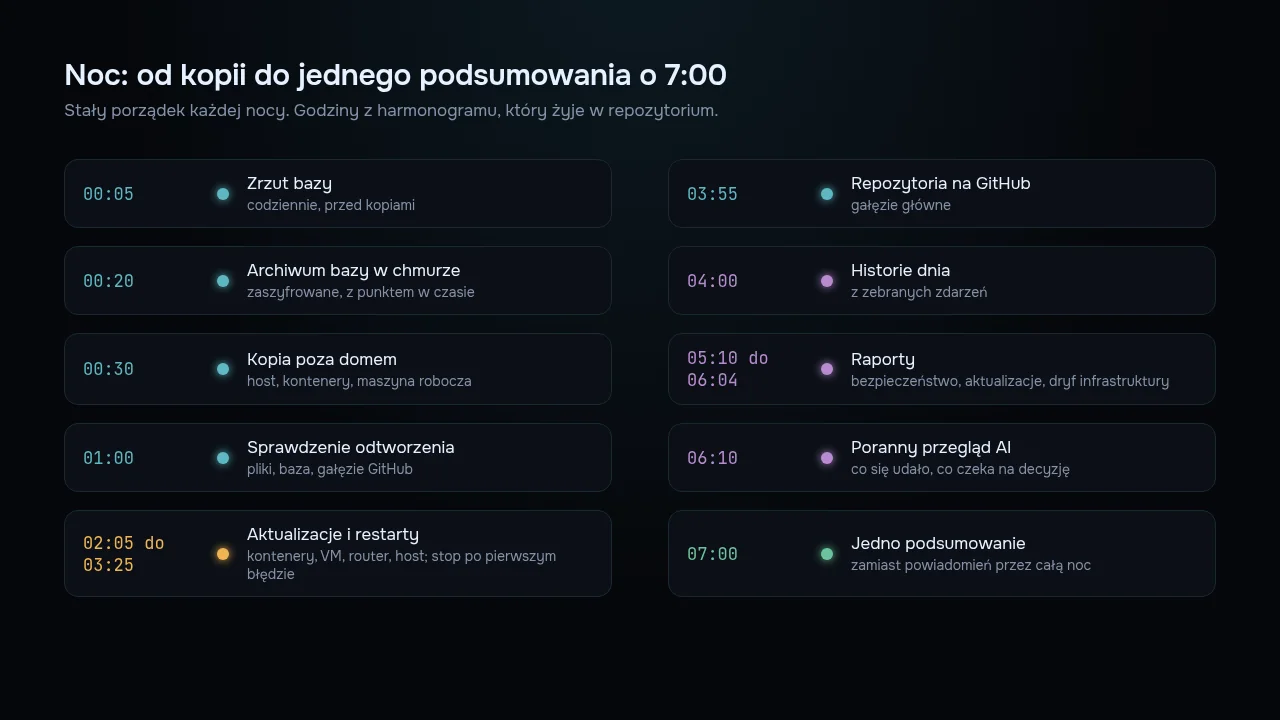
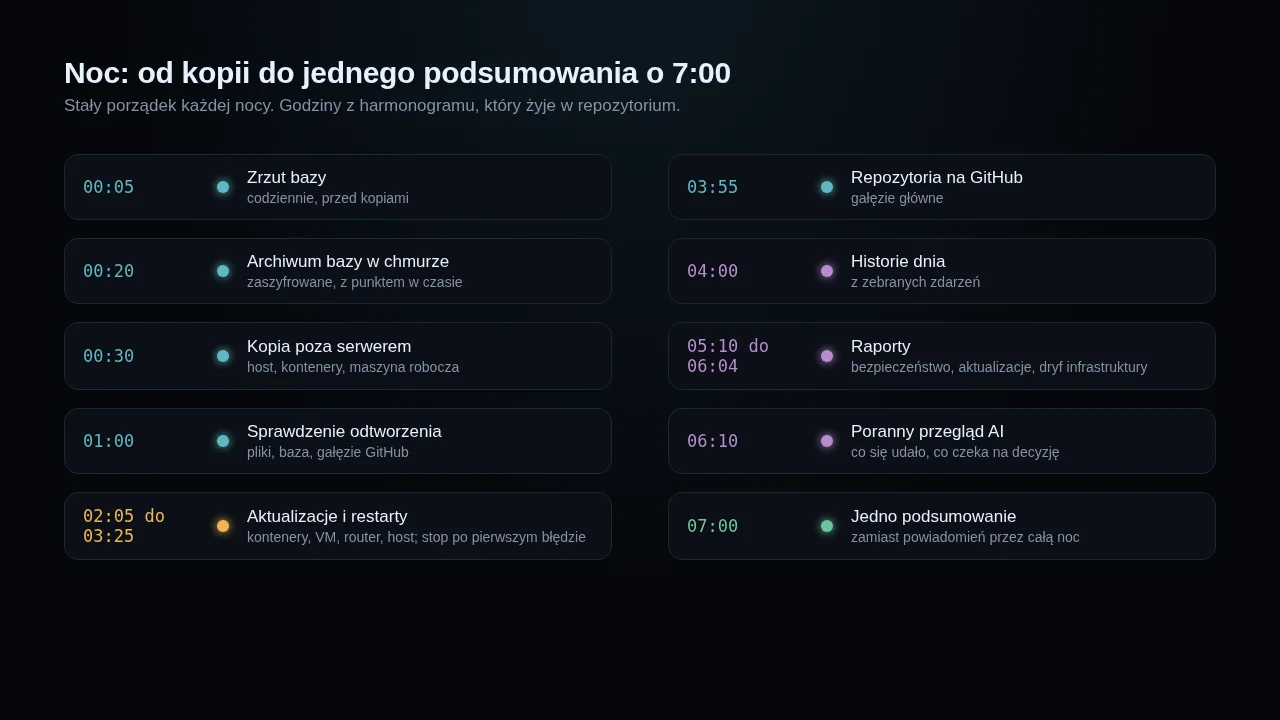
Platforma danych: okładka z równoległej wersji (bez niesprawdzonej liczby), schematy bez słowa „dom”, link do agentów; Awatary 3D: aktualny status po zdjęciu z rzutnika
Kind: feat

diff --git a/tools/okladki/platforma.html b/tools/okladki/platforma.html
@@ -1,0 +1,69 @@
+<!doctype html><html lang="pl"><head><meta charset="utf-8"><link rel="stylesheet" href="base.css">
+<!-- Okładka projektu „Platforma danych i nocny potok”: makieta z faktów (godziny z harmonogramu, wynik sprawdzenia
+     odtworzenia z nocy 09.11.2026), bez adresów i nazw maszyn. Lewy górny róg pusty: tam na karcie jest etykieta kategorii.
+     Render: zrzut 1280x720 (Playwright + google-chrome) → public/img/projekty/platforma-okladka.webp (q86) -->
+<style>
+@font-face{font-family:Onest;src:url(../../node_modules/@fontsource-variable/onest/files/onest-latin-ext-wght-normal.woff2) format('woff2');font-weight:100 900}
+@font-face{font-family:Onest;src:url(../../node_modules/@fontsource-variable/onest/files/onest-latin-wght-normal.woff2) format('woff2');font-weight:100 900}
+@font-face{font-family:JBM;src:url(../../node_modules/@fontsource-variable/jetbrains-mono/files/jetbrains-mono-latin-wght-normal.woff2) format('woff2');font-weight:100 800}
+html,body{font-family:Onest,sans-serif}
+.bg{background:radial-gradient(900px 560px at 18% 0%,#10303a 0,#030408 72%)}
+.p{position:absolute;border-radius:14px;background:#070b12;border:1px solid #1d2a3c;box-shadow:0 30px 80px rgba(0,0,0,.65);color:#d6deea;overflow:hidden}
+.ph{font:600 13px JBM,monospace;letter-spacing:.14em;text-transform:uppercase;color:#7d8ba3;padding:16px 22px 6px}
+.tl{position:relative;padding:6px 22px 0 22px}
+.row{display:grid;grid-template-columns:62px 18px 1fr auto;align-items:center;height:40.5px;font-size:16.5px}
+.t{font:500 14px JBM,monospace;color:#7d8ba3}
+.dt{width:10px;height:10px;border-radius:50%;background:#5fb8c2;box-shadow:0 0 0 3px rgba(95,184,194,.15)}
+.dt.v{background:#b88bd0;box-shadow:0 0 0 3px rgba(184,139,208,.15)}
+.dt.m{background:#e3e9f2;box-shadow:0 0 0 3px rgba(227,233,242,.12)}
+.line{position:absolute;left:88px;top:24px;bottom:16px;width:2px;background:linear-gradient(#5fb8c2,#b88bd0 60%,#e3e9f2)}
+.r{font:500 13px JBM,monospace;color:#5fb8c2}
+.r.v{color:#b88bd0}.r.m{color:#9aa6b8}
+.ck{font:15px/1.8 JBM,monospace;padding:4px 22px 0;color:#c6d0de}
+.ck b{color:#5fb8c2;font-weight:600}
+.big{font:600 56px Onest;color:#e8eef6;letter-spacing:-.02em}
+.sm{font-size:13.5px;color:#8995a8}
+.bar2{height:8px;border-radius:4px;background:#121a26;margin:8px 0 4px;overflow:hidden}
+.bar2 i{display:block;height:100%;background:linear-gradient(90deg,#5fb8c2,#b88bd0)}
+.tag{color:#5d6a80;font-family:JBM,monospace}
+</style></head><body><div class="bg">
+<div class="p" style="left:36px;top:150px;width:640px;height:520px">
+ <div class="ph">noc · potok zadań</div>
+ <div class="tl"><div class="line"></div>
+  <div class="row"><span class="t">00:05</span><span class="dt"></span><span>Zrzut bazy PostgreSQL</span><span class="r">ok</span></div>
+  <div class="row"><span class="t">00:20</span><span class="dt"></span><span>Kopia przyrostowa bazy, szyfrowana</span><span class="r">ok</span></div>
+  <div class="row"><span class="t">00:30</span><span class="dt"></span><span>Kopia danych poza serwer</span><span class="r">ok</span></div>
+  <div class="row"><span class="t">01:00</span><span class="dt"></span><span>Próba odtworzenia kopii</span><span class="r">ok · 17 min</span></div>
+  <div class="row"><span class="t">02:05</span><span class="dt v"></span><span>Okno konserwacji</span><span class="r v">ok</span></div>
+  <div class="row"><span class="t">02:40</span><span class="dt v"></span><span>Przegląd kodu z poprzedniego dnia</span><span class="r v">ok</span></div>
+  <div class="row"><span class="t">03:40</span><span class="dt v"></span><span>Dokumentacja zgodna ze stanem</span><span class="r v">ok</span></div>
+  <div class="row"><span class="t">03:55</span><span class="dt v"></span><span>Repozytoria na GitHub</span><span class="r v">ok</span></div>
+  <div class="row"><span class="t">05:10</span><span class="dt m"></span><span>Raporty i analiza dnia</span><span class="r m">ok</span></div>
+  <div class="row"><span class="t">06:10</span><span class="dt m"></span><span>Przegląd nocy przez model</span><span class="r m">ok</span></div>
+  <div class="row"><span class="t">07:00</span><span class="dt m"></span><span><b>Jedno podsumowanie rano</b></span><span class="r m">gotowe</span></div>
+ </div>
+</div>
+<div class="p" style="left:700px;top:150px;width:544px;height:268px">
+ <div class="ph">sprawdzenie odtworzenia · ta noc</div>
+ <div class="ck">
+<div><b>✓</b> kopia bazy sprzed 1 h, limit 36 h</div>
+<div><b>✓</b> zrzut czytelny: 170 tabel</div>
+<div><b>✓</b> 72/72 losowe pliki, sumy sha256 zgodne</div>
+<div><b>✓</b> 1/7 repozytorium co noc, całość w tydzień</div>
+<div><b>✓</b> 11 gałęzi na GitHub zgodnych</div>
+<div style="color:#7d8ba3">  niedziela: pełne odtworzenie bazy</div>
+<div style="color:#7d8ba3">  na osobnej instancji, porównanie tabel</div>
+ </div>
+</div>
+<div class="p" style="left:700px;top:434px;width:260px;height:236px;padding:16px 22px;box-sizing:border-box">
+ <div class="ph" style="padding:0 0 6px">zadania</div>
+ <div class="big">30</div>
+ <div class="sm">w harmonogramie jako kod,<br>rozjazd z plikiem = alarm</div>
+</div>
+<div class="p" style="left:976px;top:434px;width:268px;height:236px;padding:16px 22px;box-sizing:border-box">
+ <div class="ph" style="padding:0 0 6px">chmura · darmowy limit</div>
+ <div class="big">≈40<span style="font-size:24px;color:#8995a8"> %</span></div>
+ <div class="bar2"><i style="width:40%"></i></div>
+ <div class="sm">zapytań w miesiącu: dziennik<br>bazy wysyłany co 10 min</div>
+</div>
+<div class="tag">godziny i wynik z nocy 09.11.2026</div></div></body></html>
